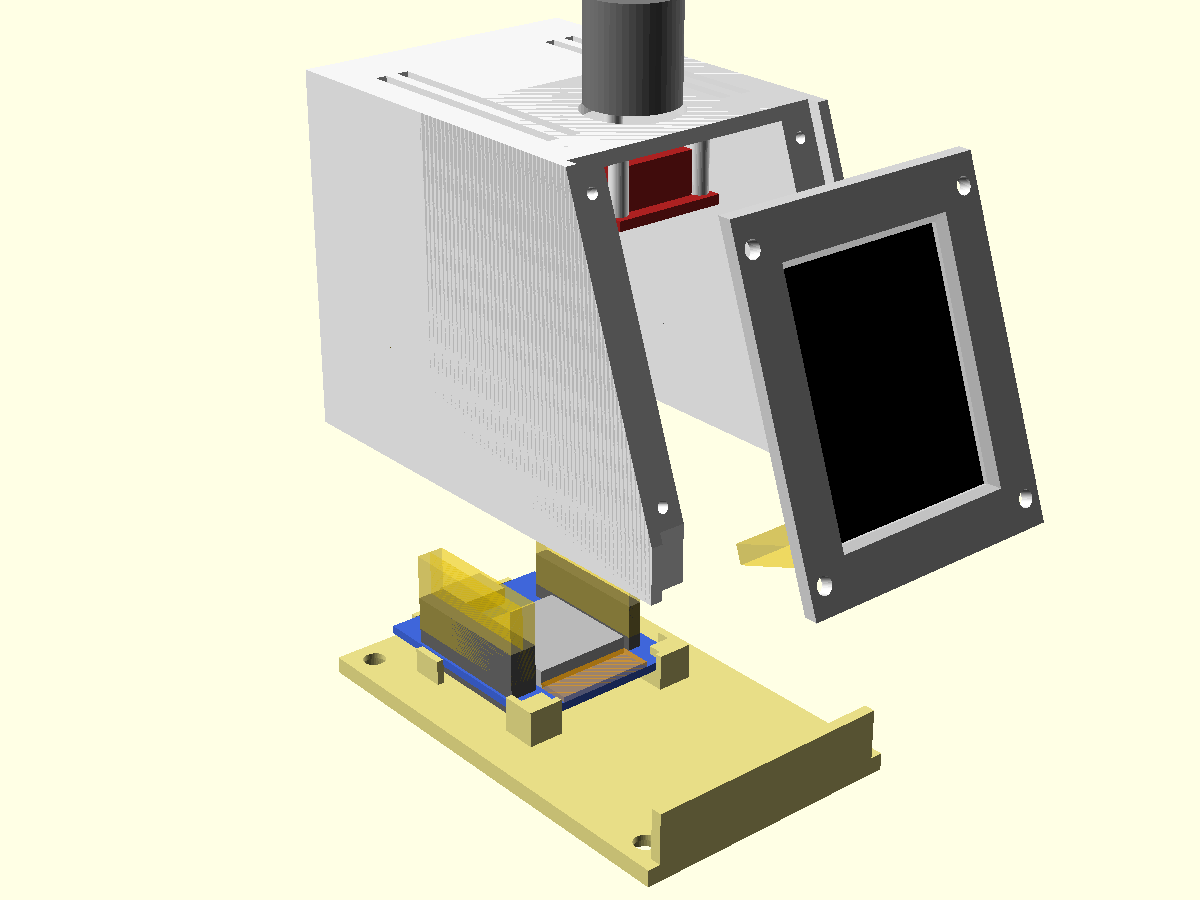
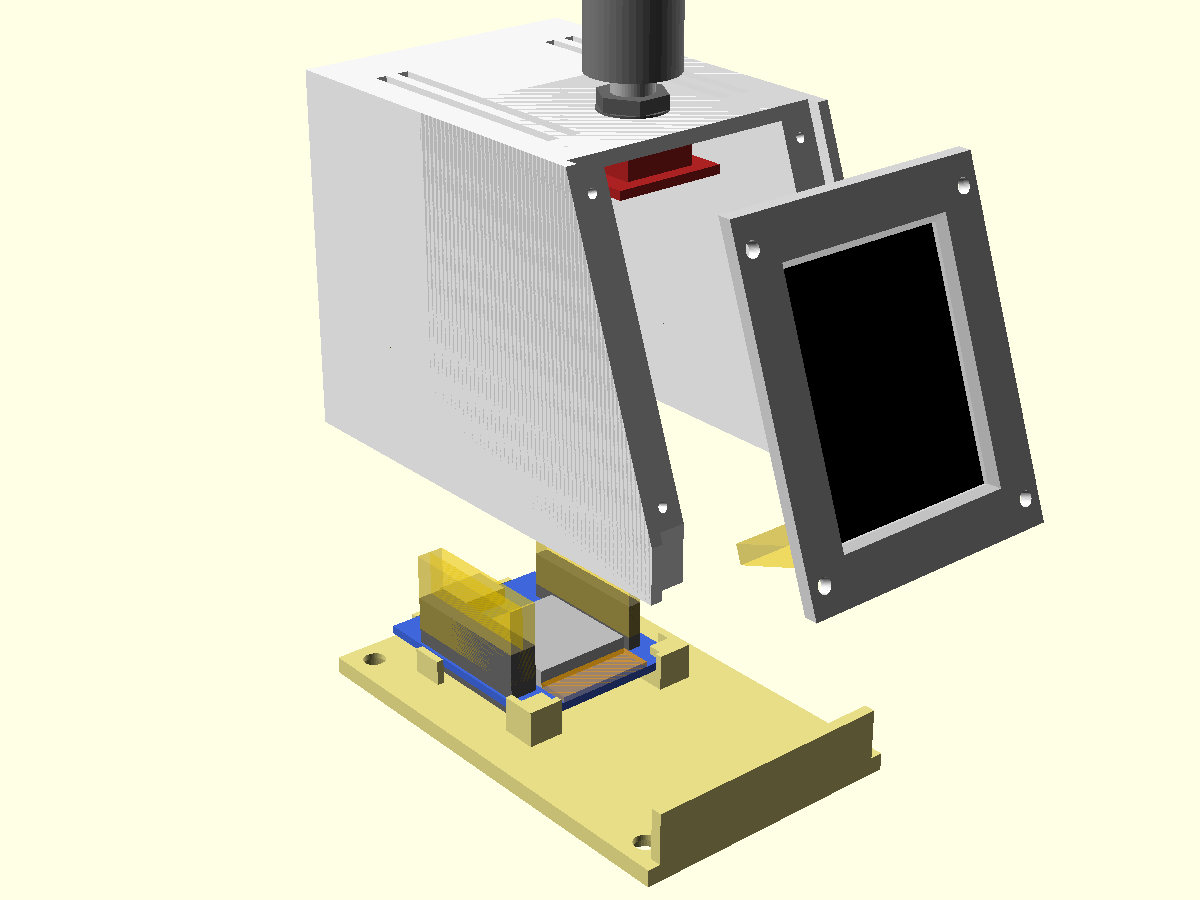
Enclosure v2: knob held by its own nut, front plate on 2 x 6 screws
The KY-040's M7 collar goes up through a 7.3 hole; its nut and washer
clamp the encoder body against the inside of the top (measured: collar
6.73 x 6.86, body 6.38, board 1.47, nut 2.24, washer 0.37). Two ribs at
the pin end stop it turning. Replaces v1's snap hooks, one of which
didn't catch. Header now straight down under the pin end. Front plate:
2.4 holes, 1.6 pilots 6 deep for 2 x 6 screws.

Changed region(s): [[0.4625, 0.0622, 0.6167, 0.2489], [0.5242, 0.0, 0.555, 0.0311]]

diff --git a/enclosure/pages/assembly/assembly.html b/enclosure/pages/assembly/assembly.html
@@ -76,16 +76,16 @@ h2{font-size:1.5rem}
   </section>
 
   <section class="step">
-    <div class="head"><span class="num">3</span><h2>Snap the knob into the body</h2></div>
+    <div class="head"><span class="num">3</span><h2>Bolt the knob into the body</h2></div>
     <div class="fig"><img src="s3.png" alt="The body seen from below and in front, the knob board under the top">
       <svg viewBox="0 0 1000 750"><text class="t" x="600" y="70">knob board</text><path class="lead" d="M660 80 L540 300"/><text class="t" x="800" y="660">rail</text><path class="lead" d="M815 630 L740 470"/><text class="t" x="230" y="200">rail</text><path class="lead" d="M290 205 L425 300"/></svg></div>
-    <p>Reach in through the open front and push the knob's board up under the top until the two hooks click over it. Then press the cap onto the shaft from outside. The two rails are what the front plate will lie on.</p>
+    <p>Reach in through the open front and push the knob's threaded collar up through the small hole in the top, the board between the two ribs. From outside, put on the washer and screw the nut down. Then press the cap onto the shaft. The two rails are what the front plate will lie on.</p>
   </section>
 
   <section class="step">
     <div class="head"><span class="num">4</span><h2>Screw the front plate onto the body</h2></div>
     <div class="fig"><img src="s4.png" alt="The front plate with the screen held in front of the body's open front">
-      <svg viewBox="0 0 1000 750"><circle class="ring" cx="522" cy="330" r="26"/><circle class="ring" cx="730" cy="285" r="26"/><circle class="ring" cx="585" cy="620" r="26"/><circle class="ring" cx="778" cy="552" r="26"/><path class="a" d="M940 450 L850 425" marker-end="url(#h)"/><text class="tm" x="330" y="710">4 screws, 2.3 x 8 mm, from the front</text></svg></div>
+      <svg viewBox="0 0 1000 750"><circle class="ring" cx="522" cy="330" r="26"/><circle class="ring" cx="730" cy="285" r="26"/><circle class="ring" cx="585" cy="620" r="26"/><circle class="ring" cx="778" cy="552" r="26"/><path class="a" d="M940 450 L850 425" marker-end="url(#h)"/><text class="tm" x="330" y="710">4 screws, 2 x 6 mm, from the front</text></svg></div>
     <p>The plate drops in between the two side walls and lies on the rails. Four screws go in from the front, one at each corner; their heads stay visible.</p>
   </section>
 

diff --git a/enclosure/README.md b/enclosure/README.md
@@ -58,9 +58,14 @@ plate, not the whole case, and the plate prints face down.
   (0.3 mm clear of it). Pin header at the bottom, so the picture is
   upright with `FLIP_180 = 1` in `main/display.c`, as now. Its plug hangs
   down and back, ending ~12 mm in front of the ESP32.
-- **Knob**: KY-040 flat under the top, shaft end to the front, pins to the
-  back, pushed up into two snap hooks against 4 pads (as on the desk
-  display). The cap goes on from outside afterwards.
+- **Knob** (v2): KY-040 flat under the top, shaft end to the front, pins
+  to the back. Its threaded M7 collar goes up through a 7.3 hole and the
+  nut that came with it, on its washer, clamps the encoder body against
+  the inside of the top (2.2 of thread left above the nut). Two ribs
+  beside the board's pin end stop it turning (1 mm clear of the board:
+  the shaft's position across it is +-1). The cap goes on from outside
+  afterwards, ~3 above the nut. Header straight down under the pin end,
+  the plug ~6 above the ESP32's plugs. v1's snap hooks didn't hold.
 - **ESP32 mini** (no mounting holes): flat
   on the floor at the back, metal can up, USB end at the back wall, 3 mm
   above the floor (room for the solder joints). Held in a cradle on the
@@ -88,7 +93,8 @@ plate, not the whole case, and the plate prints face down.
   the cables need enough slack to lay the three beside each other.
 
 Assembly order: TFT onto the plate (4 screws from behind), its cable on;
-knob snapped into the body; plate onto the body (4 screws from the front);
+knob up through its hole from inside, washer and nut on from outside;
+plate onto the body (4 screws from the front);
 ESP32 into the cradle, cables on; base on (4 screws from below).
 
 ## Parts to print
@@ -109,8 +115,8 @@ black pan head. What's in them: their Homebox entries (`parts.py show screws`).
 
 - 4 × M3 × 10, round head, silver kit (base → body; 4.0 holes in the
   base, pilot 2.5, 13 deep: the screw's tip reaches ~12.7)
-- 4 × 2.3 × 8, black kit (front plate → rails; 2.7 hole in the plate,
-  pilot 1.9, 6.5 deep)
+- 4 × 2 × 6, black kit (front plate → rails; 2.4 hole in the plate,
+  pilot 1.6, 6 deep: the screw reaches 4; v1's 2.3 × 8 snapped)
 - 4 × 2 × 4, black kit (TFT → posts, pilot 1.6; a 6 would poke out the
   front). The TFT's holes measured 1.79: try one screw first, else drill
   them to 2.0
@@ -131,8 +137,9 @@ black pan head. What's in them: their Homebox entries (`parts.py show screws`).
 
 ## Knob checklist (`test_knob` or `body`)
 
-1. KY-040: it snaps in, the shaft is centred in the 16 mm hole, and the cap
-   turns and presses without rubbing the top.
+1. KY-040: the collar passes the 7.3 hole (else drill it to 7.5), the
+   board sits between the two ribs, the nut tightens with thread to
+   spare, and the cap turns and presses without touching the nut.
 
 ## Base print checklist
 
@@ -184,14 +191,11 @@ pins under the board, pointing down; the stubs on top stay below the
 encoder body. Its collar/nut sizes are in Homebox; the measuring page is
 `pages/knob/knob.html`.
 
-v2 to do: rework the knob mount (deeper barbs or another hold; measure
-the KY-040's thickness, the shaft's position across the board and the
-header's), front plate screws 2 x 6 instead of 2.3 x 8
-(4 into the rail like the TFT's posts: pilot 1.6, ~6 deep so the tip
-never bottoms out, 2.4 hole in the plate).
-Done in the model: base over the whole footprint (the user's photo of
-v1's thin edges round the base holes, 2026-10-10; renders of before /
-after in `pages/assembly/base-v2/`), base holes 4.0, boss pilots 13 deep.
+v2, all in the model (2026-10-10): base over the whole footprint (the
+user's photo of v1's thin edges round the base holes; renders of before /
+after in `pages/assembly/base-v2/`), base holes 4.0, boss pilots 13 deep;
+front plate screws 2 x 6 (pilot 1.6, 6 deep, 2.4 hole in the plate);
+knob held by its own nut instead of hooks (above). Not printed yet.
 
 ## Pictures and pages
 
@@ -215,5 +219,6 @@ deleted):
   render, check they still point at the right thing.
 - `pages/knob/knob.html`: "Mukklet Knob Guide", the v2 knob idea (the
   KY-040's collar through a small hole in the top, held by its nut) and
-  what to measure for it. `v2-nut.png` is from a scratch copy of the
-  model with guessed collar/nut sizes, not from `enclosure.scad`.
+  what to measure for it, with the user's numbers. `v2-nut.png` is from a
+  scratch copy of the model with guessed collar/nut sizes (drawn before
+  the measurements), not from `enclosure.scad`.

diff --git a/CLAUDE.md b/CLAUDE.md
@@ -244,14 +244,13 @@ mount doesn't hold the board (the user balances it when pressing). Findings
 and the v2 list: "First print" in `enclosure/README.md`. In the model
 since 2026-10-10: the base covers the whole footprint (walls stand on it;
 v1's base holes were 0.2 from its edge), base holes 4.0, deeper boss
-pilots. Front plate now on 2 x 6 screws (two 2.3 x 8 snapped).
+pilots; front screws 2 x 6 (two 2.3 x 8 snapped in v1); the knob held by
+its own M7 nut through a 7.3 hole (+ two anti-turn ribs) instead of snap
+hooks (KY-040 measured, in Homebox; `enclosure/pages/knob/knob.html`).
 Open, in order:
 1. **Bug fixing** (firmware/Mukk side): next, when the user says so
    (2026-10-07: "after, not now, i will notify"). No list yet.
-2. **Case v2**, later: the knob mount first, then the hole sizes (README's
-   v2 list). Before modelling the mount, get the KY-040's thickness, the
-   shaft's position across the board and where its header ends up (the
-   user took it off to resolder on the underside).
+2. **Case v2**: modelled (README's v2 list), not printed yet.
 3. Which way clockwise turns the volume was never said.
 After a model change, `enclosure/pages/assembly/render.sh` redoes the
 assembly page's pictures and `~/Videos/mukklet-reel/renders/render.sh` the
